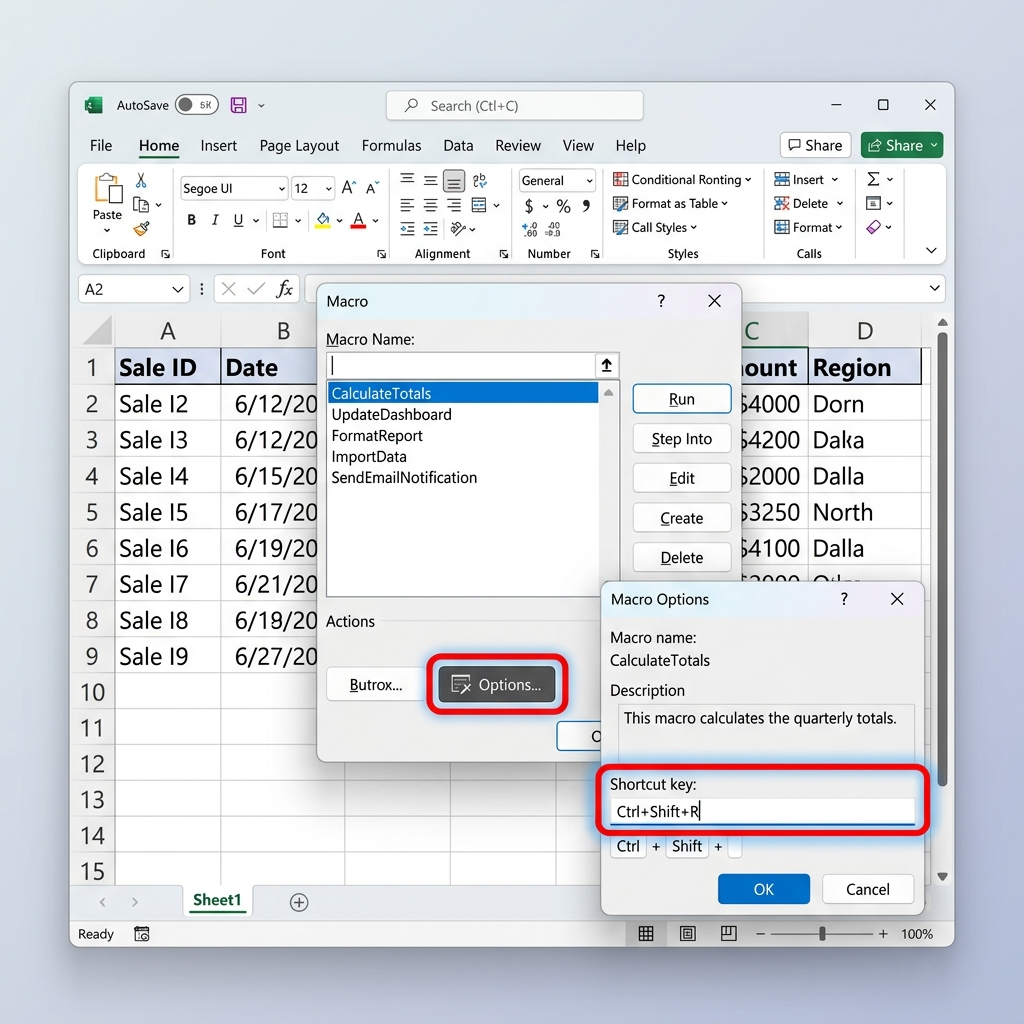
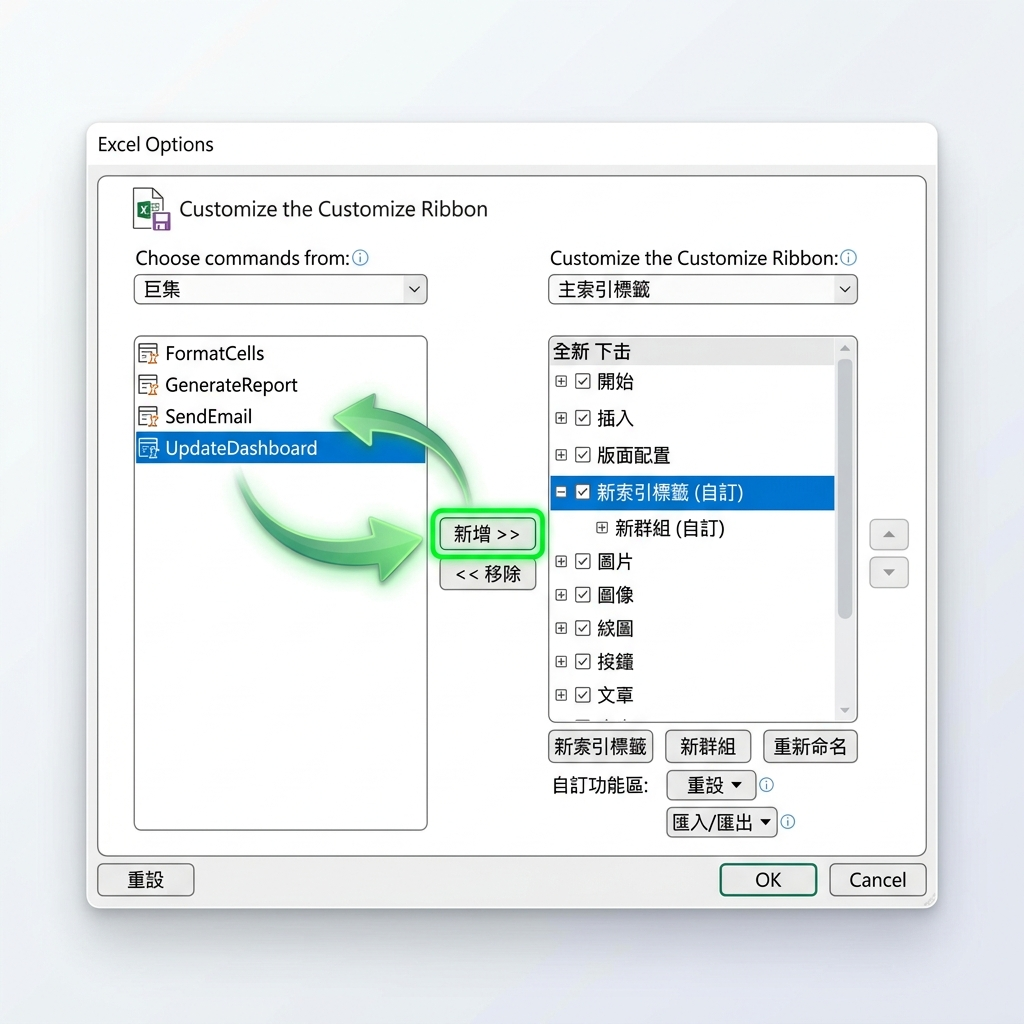
Update VBA shortcut tab description to Customize Ribbon and update guide image

diff --git a/app.js b/app.js
@@ -1042,32 +1042,32 @@ function renderHintsContent() {
         <div class="save-method-info">
           <div class="save-method-title">
             <span class="save-method-step-num">3</span>
-            自訂快捷鍵，秒速觸發自動化
+            自訂功能區巨集按鈕 (快捷鍵自訂工具)
           </div>
           <p class="save-method-desc">
-            當您不希望在工作表放上任何按鈕，或追求更快速的鍵盤流操作時，可以設定專屬的快捷組合鍵（例如 <code>Ctrl + Shift + R</code>），一秒啟動信用卡帳單處理巨集！
+            除了在工作表上繪製按鈕外，您也可以直接在 Excel 上方的「功能區」 (Ribbon) 中，新增一個專屬的巨集執行按鈕。不論切換到哪一個工作表，隨時都能一鍵快速啟動自動化巨集！
           </p>
           <div class="save-method-steps">
             <div class="save-method-step-item">
               <strong>步驟 1:</strong>
-              <div>按下鍵盤 <span>「Alt + F8」</span> 開啟巨集對話框（或點擊 <span>「開發人員」</span> &rarr; <span>「巨集」</span>）。</div>
+              <div>在 Excel 上方功能區的任意空白處點選滑鼠右鍵，選擇 <span>「自訂功能區...」 (Customize the Ribbon)</span>。</div>
             </div>
             <div class="save-method-step-item">
               <strong>步驟 2:</strong>
-              <div>在清單中選取要設定的巨集（如 <span>「FullAutomatedBillingSystem」</span>），並點選右側的 <span>「選項...」 (Options)</span>。</div>
+              <div>在右側清單中選取要放置按鈕的索引標籤（例如「常用」），點擊下方 <span>「新增群組」 (New Group)</span> 建立一個自訂群組。</div>
             </div>
             <div class="save-method-step-item">
               <strong>步驟 3:</strong>
-              <div>在快捷鍵欄位輸入字母（建議配合 <span>Shift</span> 鍵如大寫 <span>R</span>，即為 <span>Ctrl + Shift + R</span>，避免與系統原有快捷鍵衝突）。</div>
+              <div>將左側選單的「選取命令」下拉清單切換為 <span>「巨集」 (Macros)</span>，並選取您要執行的巨集（如 <span>「FullAutomatedBillingSystem」</span>）。</div>
             </div>
             <div class="save-method-step-item">
               <strong>步驟 4:</strong>
-              <div>點擊確定並關閉視窗，之後隨時在工作表中按此快捷鍵即可執行自動化。</div>
+              <div>選中右側剛剛建立的自訂群組，點選中間的 <span>「新增 >>」 (Add)</span> 將該巨集加入群組底下。接著可以點擊 <span>「重新命名...」</span> 設定按鈕的圖示與顯示名稱。</div>
             </div>
           </div>
         </div>
         <div class="save-method-img-box">
-          <img src="courses/course-0vvk06/prep/downloads/shortcut_macro_guide.png" alt="快捷鍵自訂工具導引圖">
+          <img src="courses/course-0vvk06/prep/downloads/shortcut_macro_guide.png" alt="自訂功能區巨集按鈕導引圖">
         </div>
       </div>
     `;